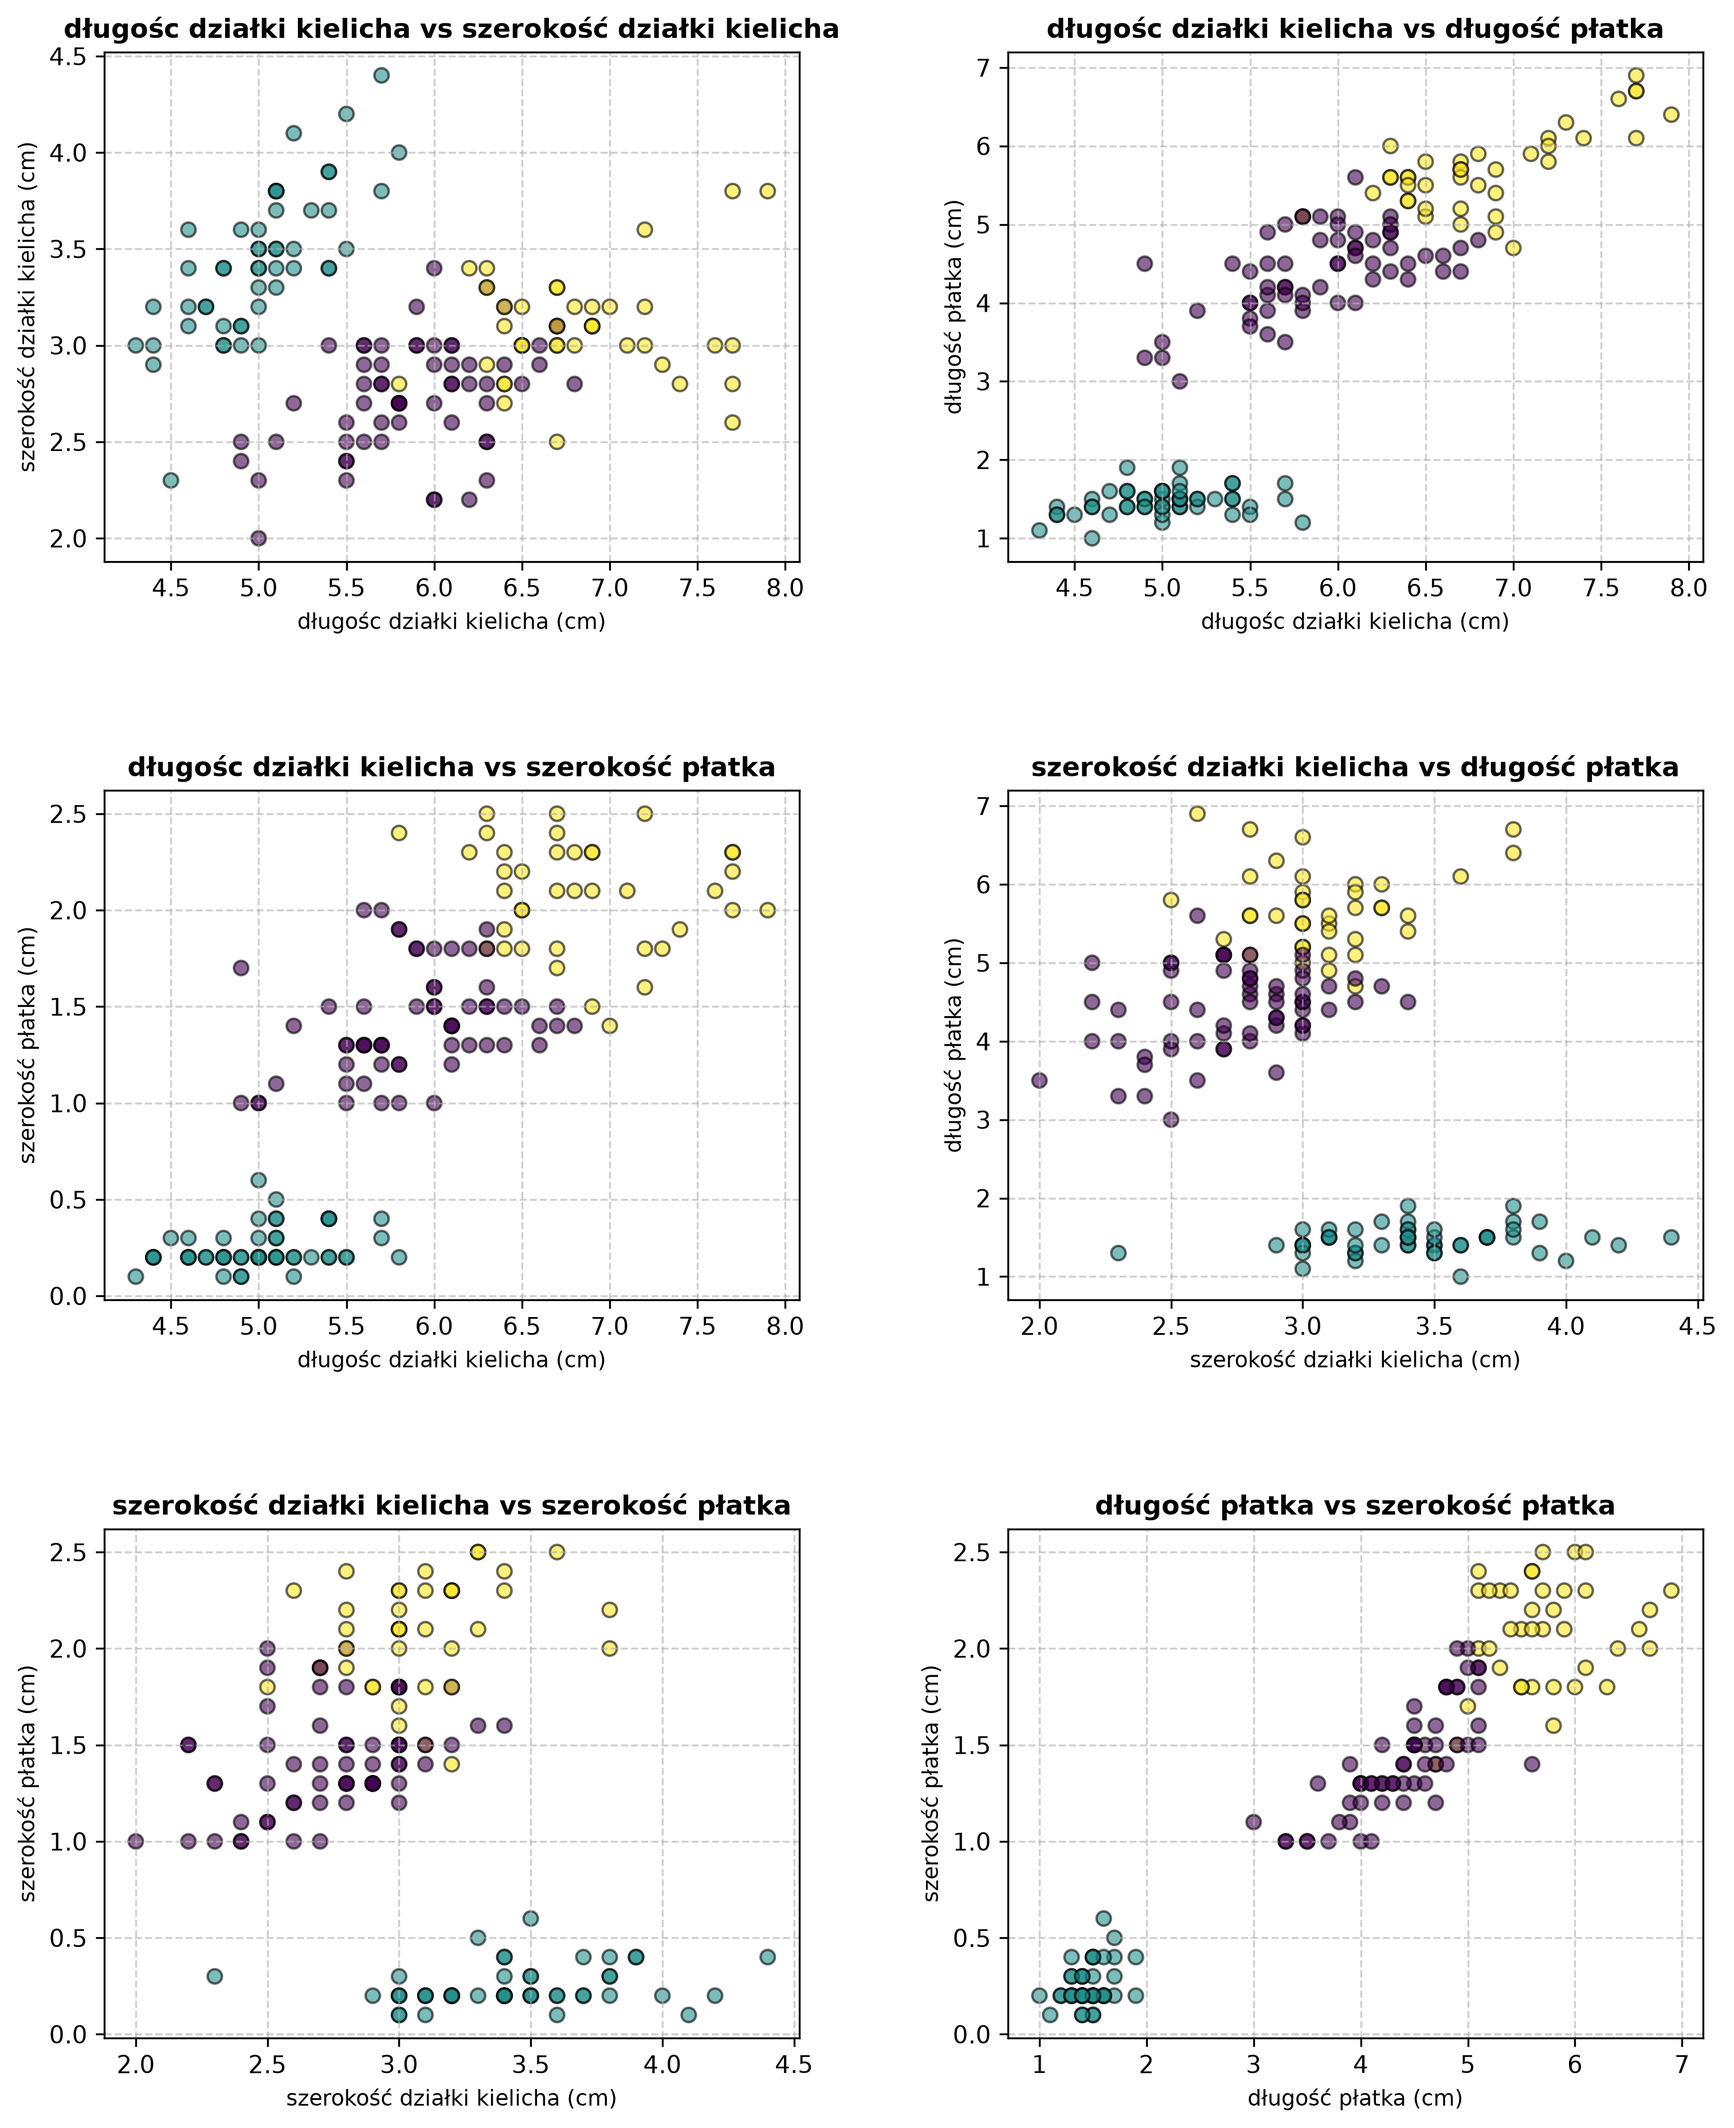
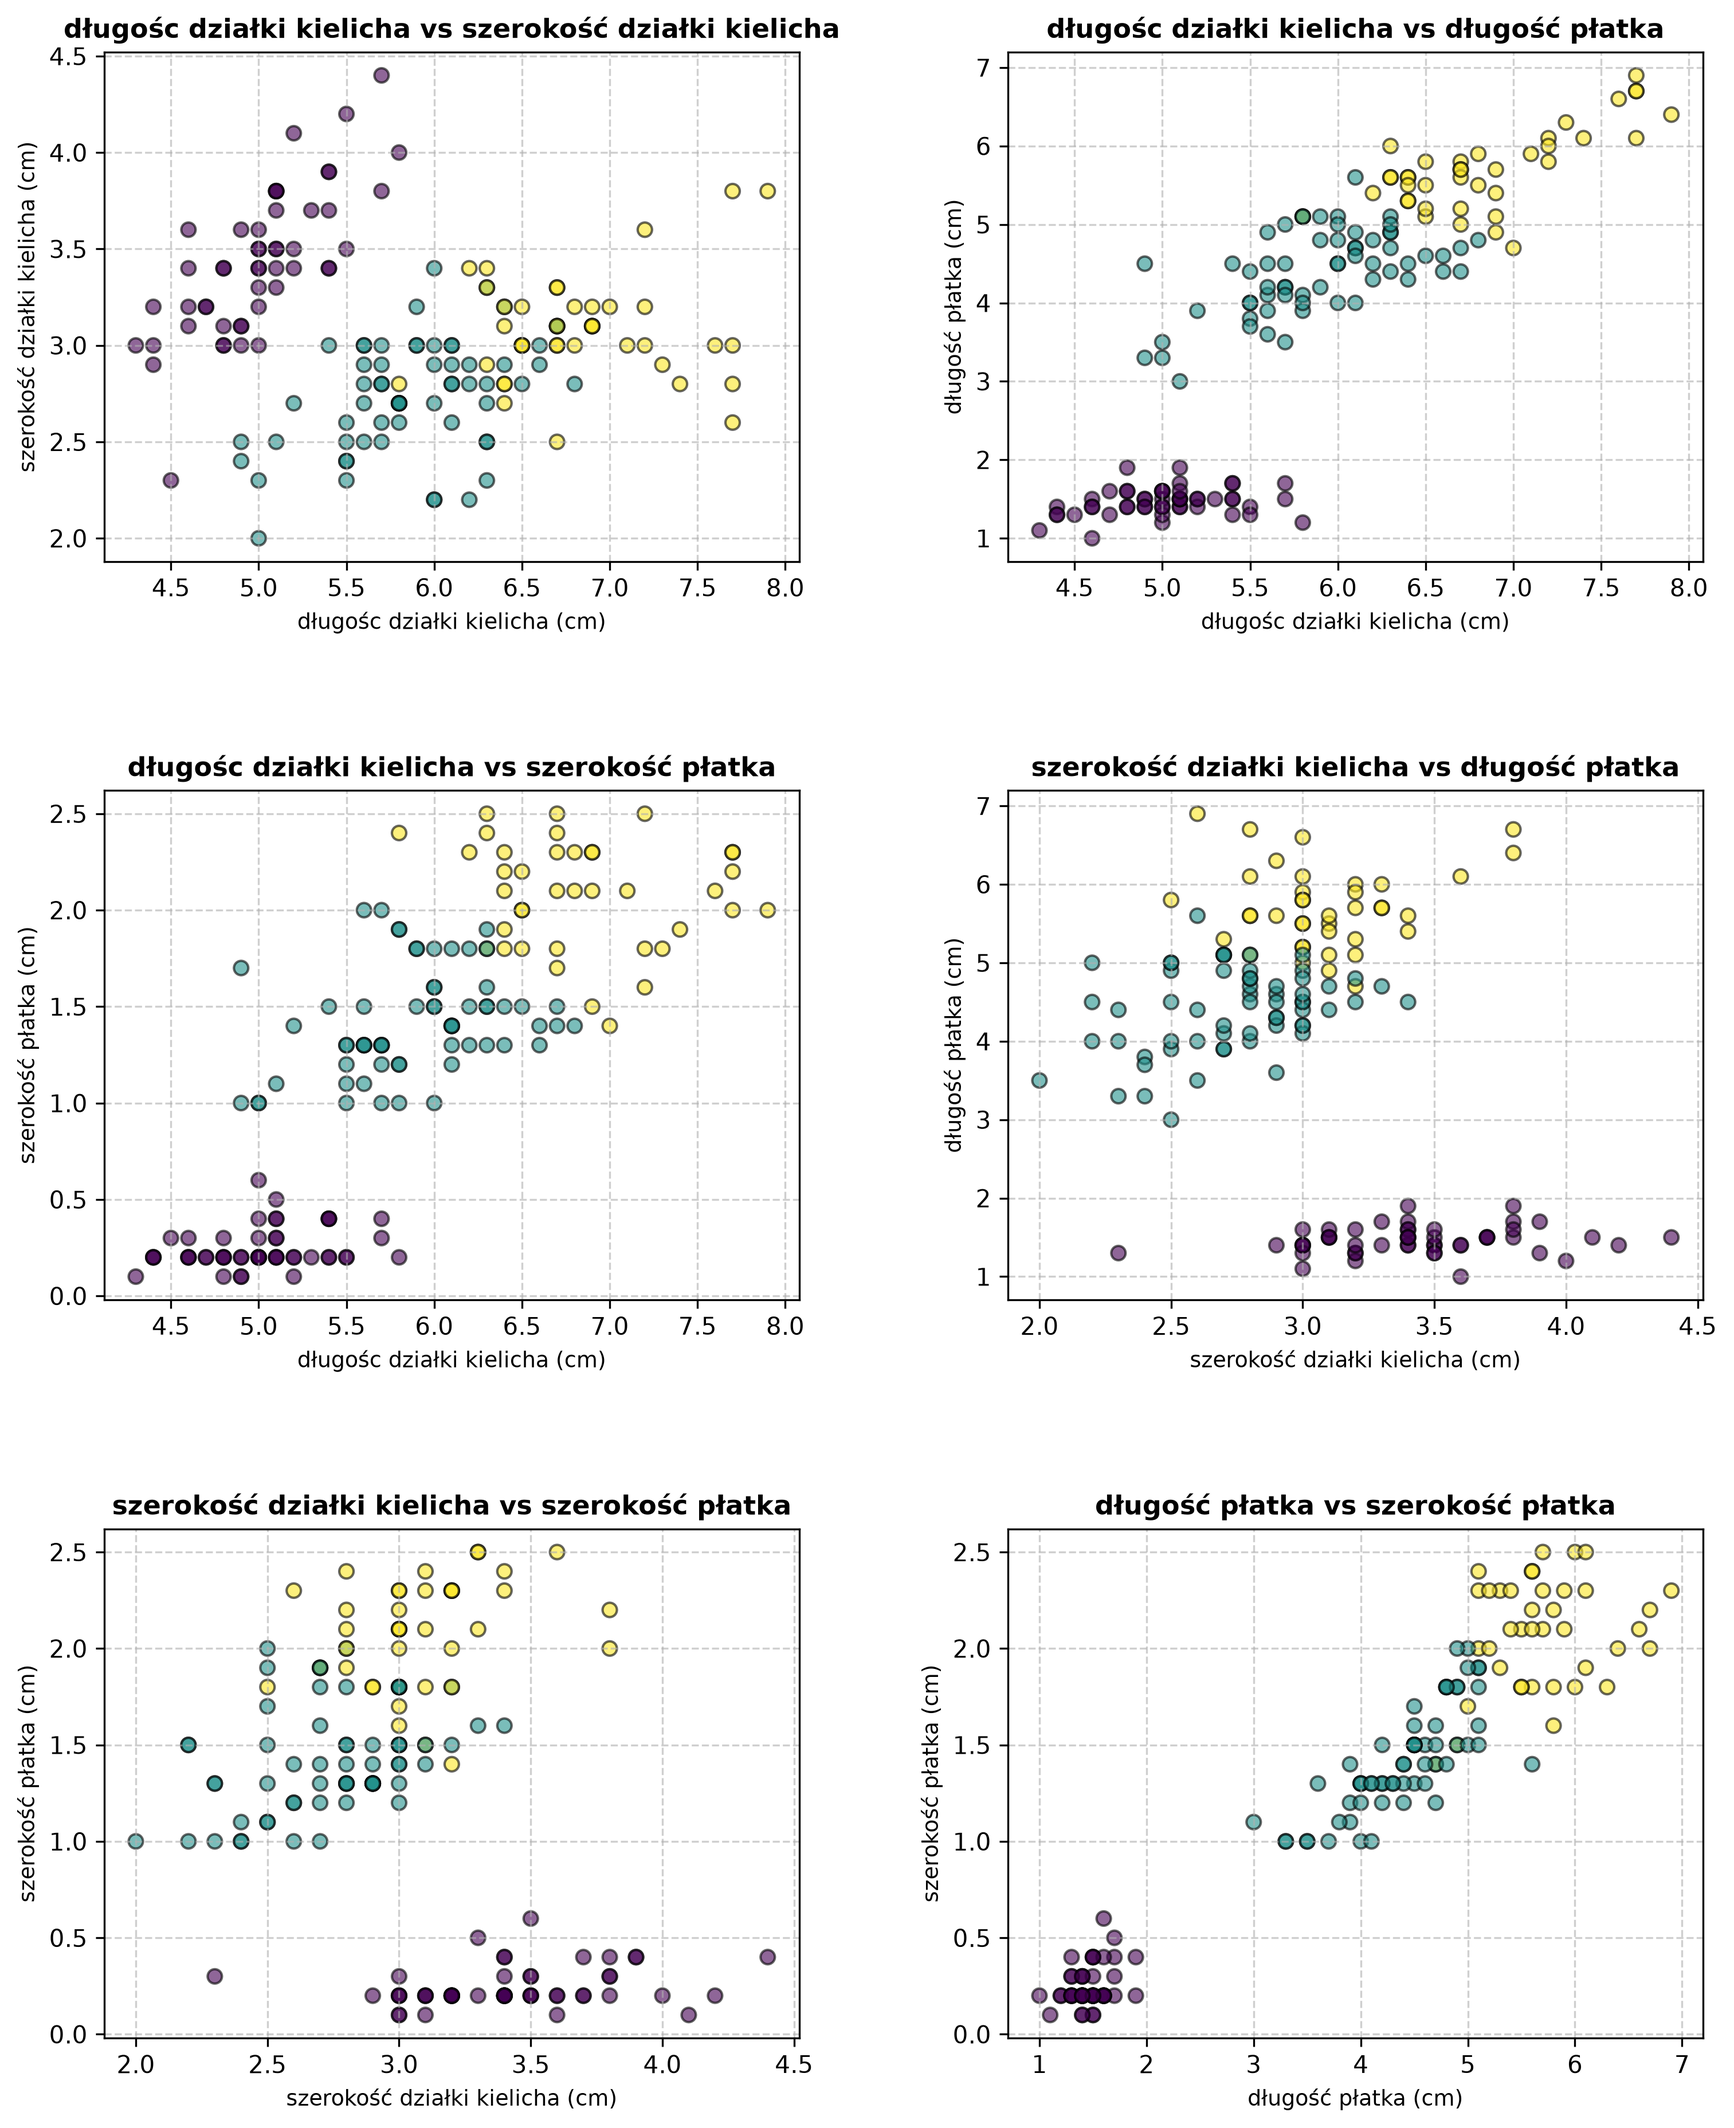
całe zadanie 2

diff --git a/zad2.py b/zad2.py
@@ -1,31 +1,12 @@
 import matplotlib.pyplot as plt
 import pandas as pd
 import itertools
-import math
 
 from sklearn.cluster import KMeans
 from sklearn.preprocessing import MinMaxScaler
 
 
 #funkcje oraz generowanie wykresów takie samo jak w ostatnim zadaniu
-def korelacja_pearsona(x, y):
-    n = len(x) #liczba punktów pomiarowych
-    sr_x = sum(x) / n
-    sr_y = sum(y) / n #srednie arytemtyczne dla obu wartosci
-    licznik = sum((xi - sr_x) * (yi - sr_y) for xi, yi in zip(x, y)) #suma iloczynow odchylen punktow od sredniej
-    mianownik = math.sqrt(sum((xi - sr_x)**2 for xi in x) * sum((yi - sr_y)**2 for yi in y)) #iloczyn sum kwadratów odchyleń pod pierwiastkiem
-    return licznik / mianownik if mianownik != 0 else 0.0
-
-def regresja_liniowa(x, y): #obliczanie wwspolczynnikow
-    n = len(x)
-    sr_x = sum(x) / n
-    sr_y = sum(y) / n
-    licznik = sum((xi - sr_x) * (yi - sr_y) for xi, yi in zip(x, y)) # to amo co w korelacji
-    mianownik = sum((xi - sr_x)**2 for xi in x) #oblicza sumę kwadratów odchyleń zmiennej x od jej średniej
-    a = licznik / mianownik #wspolczynnik a
-    b = sr_y - a * sr_x #wspolczynnik b
-    return a, b
-
 kolumny = ["długośc działki kielicha", "szerokość działki kielicha", "długość płatka", "szerokość płatka"] #6kombiacji
 dane = pd.read_csv("data2.csv", sep =",", names = kolumny)
 
@@ -44,18 +25,40 @@ for idx, (cecha_x, cecha_y) in enumerate(pary):
     ax = axes1[idx]
     x = dane[cecha_x]
     y = dane[cecha_y]
-    r = korelacja_pearsona(x, y)
-    a, b = regresja_liniowa(x, y)
     ax.scatter(x, y, c = labels_3, edgecolors='black', alpha=0.6, label='Pomiary') #rysowanie punktów danych, o przezroczystosci 0.6
     ax.set_title(f"{cecha_x} vs {cecha_y}", fontsize=11, fontweight='bold')
     ax.set_xlabel(f"{cecha_x} (cm)", fontsize=9)
     ax.set_ylabel(f"{cecha_y} (cm)", fontsize=9)
     ax.grid(True, linestyle='--', alpha=0.6) #siatka półprzezroczysta dla łatwiejszego odczytania danych
 
-print(" ")
-print(f" WCSS = {kmeans_3.inertia_}")
 plt.savefig("wykresy.png", dpi=300, bbox_inches='tight')
 plt.show()
+
+k_wartosci = list(range(2, 11))
+wcss_tablica = []
+
+print("\nWyniki grupowania dla k od 2 do 10:")
+for k in k_wartosci:
+    kmeans = KMeans(n_clusters=k, random_state=42)
+    kmeans.fit(x_scaled)
+
+    wcss = round(kmeans.inertia_, 4)
+    iteracje = kmeans.n_iter_
+    print(f"k = {k:2d} | WCSS: {wcss:8.4f} | Liczba iteracji: {iteracje}")
+    wcss_tablica.append(wcss)
+
+plt.figure(figsize=(8, 5))
+plt.plot(k_wartosci, wcss_tablica, marker='o', linestyle='-', color='b')
+plt.title("Wartość WCSS w zależności od liczby klastrów k", fontsize=12, fontweight='bold')
+plt.xlabel("Liczba klastrów (k)", fontsize=10)
+plt.ylabel("WCSS", fontsize=10)
+plt.xticks(k_wartosci)
+plt.grid(True, linestyle='--', alpha=0.6)
+plt.savefig("wykres_wcss.png", dpi=300, bbox_inches='tight')
+plt.show()
+
+
+
 
 
 
